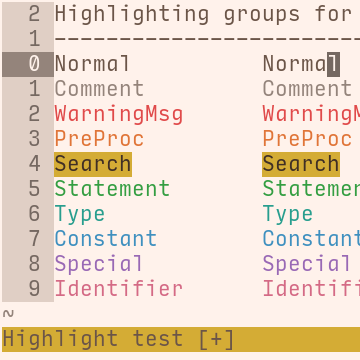
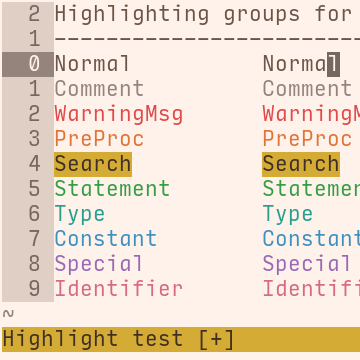
overhaul

Changed region(s): [[0.0, 0.9167, 0.3361, 0.9778], [0.3667, 0.9167, 0.5194, 0.9778], [0.55, 0.9167, 0.6417, 0.9778]]

diff --git a/README.md b/README.md
@@ -94,32 +94,32 @@ let g:wonka_light_LineNr = 'off'
     <tr>
       <td style="text-align: right"><img src="http://www.colorhexa.com/2b1b12.png" height="24" width="42" /> <code class="highlighter-rouge">2b1b12</code> </td>
       <td style="text-align: center"><img src="http://www.colorhexa.com/e04a4a.png" height="24" width="42" /> <code class="highlighter-rouge">e04a4a</code> </td>
-      <td style="text-align: left"><img src="http://www.colorhexa.com/bf6060.png" height="24" width="42" /> <code class="highlighter-rouge">bf6060</code></td>
+      <td style="text-align: left"><img src="http://www.colorhexa.com/bf5050.png" height="24" width="42" /> <code class="highlighter-rouge">bf5050</code></td>
     </tr>
     <tr>
       <td style="text-align: right"><img src="http://www.colorhexa.com/402f25.png" height="24" width="42" /> <code class="highlighter-rouge">402f25</code> </td>
       <td style="text-align: center"><img src="http://www.colorhexa.com/e07538.png" height="24" width="42" /> <code class="highlighter-rouge">e07538</code> </td>
-      <td style="text-align: left"><img src="http://www.colorhexa.com/b5734c.png" height="24" width="42" /> <code class="highlighter-rouge">b5734c</code></td>
+      <td style="text-align: left"><img src="http://www.colorhexa.com/b5693c.png" height="24" width="42" /> <code class="highlighter-rouge">b5693c</code></td>
     </tr>
     <tr>
       <td style="text-align: right"><img src="http://www.colorhexa.com/6b5548.png" height="24" width="42" /> <code class="highlighter-rouge">6b5548</code> </td>
       <td style="text-align: center"><img src="http://www.colorhexa.com/d4ac35.png" height="24" width="42" /> <code class="highlighter-rouge">d4ac35</code> </td>
-      <td style="text-align: left"><img src="http://www.colorhexa.com/ab9248.png" height="24" width="42" /> <code class="highlighter-rouge">ab9248</code></td>
+      <td style="text-align: left"><img src="http://www.colorhexa.com/ab8e38.png" height="24" width="42" /> <code class="highlighter-rouge">ab8e38</code></td>
     </tr>
     <tr>
       <td style="text-align: right"><img src="http://www.colorhexa.com/756861.png" height="24" width="42" /> <code class="highlighter-rouge">756861</code> </td>
-      <td style="text-align: center"><img src="http://www.colorhexa.com/349e42.png" height="24" width="42" /> <code class="highlighter-rouge">349e42</code> </td>
-      <td style="text-align: left"><img src="http://www.colorhexa.com/508a58.png" height="24" width="42" /> <code class="highlighter-rouge">508a58</code></td>
+      <td style="text-align: center"><img src="http://www.colorhexa.com/349e34.png" height="24" width="42" /> <code class="highlighter-rouge">349e34</code> </td>
+      <td style="text-align: left"><img src="http://www.colorhexa.com/508a50.png" height="24" width="42" /> <code class="highlighter-rouge">508a50</code></td>
     </tr>
     <tr>
       <td style="text-align: right"><img src="http://www.colorhexa.com/94847b.png" height="24" width="42" /> <code class="highlighter-rouge">94847b</code> </td>
-      <td style="text-align: center"><img src="http://www.colorhexa.com/289e8e.png" height="24" width="42" /> <code class="highlighter-rouge">289e8e</code> </td>
-      <td style="text-align: left"><img src="http://www.colorhexa.com/458a81.png" height="24" width="42" /> <code class="highlighter-rouge">458a81</code></td>
+      <td style="text-align: center"><img src="http://www.colorhexa.com/289e81.png" height="24" width="42" /> <code class="highlighter-rouge">289e81</code> </td>
+      <td style="text-align: left"><img src="http://www.colorhexa.com/458a79.png" height="24" width="42" /> <code class="highlighter-rouge">458a79</code></td>
     </tr>
     <tr>
       <td style="text-align: right"><img src="http://www.colorhexa.com/9e8d83.png" height="24" width="42" /> <code class="highlighter-rouge">9e8d83</code> </td>
       <td style="text-align: center"><img src="http://www.colorhexa.com/3f90bf.png" height="24" width="42" /> <code class="highlighter-rouge">3f90bf</code> </td>
-      <td style="text-align: left"><img src="http://www.colorhexa.com/5c869e.png" height="24" width="42" /> <code class="highlighter-rouge">5c869e</code></td>
+      <td style="text-align: left"><img src="http://www.colorhexa.com/4f819e.png" height="24" width="42" /> <code class="highlighter-rouge">4f819e</code></td>
     </tr>
     <tr>
       <td style="text-align: right"><img src="http://www.colorhexa.com/e0cfc5.png" height="24" width="42" /> <code class="highlighter-rouge">e0cfc5</code> </td>
@@ -143,10 +143,10 @@ let g:wonka_light_LineNr = 'off'
 <p><img src="http://www.colorhexa.com/d4ac35.png" height="24" width="42" />
 <strong>Yellow</strong>, the classic highlighting colour, is applied to elements that are not warnings, yet should draw attention with high visibility. These <strong>highlighted elements</strong> include search results, task tags (<code class="highlighter-rouge">TODO</code>, <code class="highlighter-rouge">FIXME</code>…), and diff changes.</p>
 
-<p><img src="http://www.colorhexa.com/349e42.png" height="24" width="42" />
+<p><img src="http://www.colorhexa.com/349e34.png" height="24" width="42" />
 <strong>Green</strong>, the colour that says “go ahead, proceed with the task at hand”, is used for <strong>action elements</strong>, such as statements (if/then, while/do, case…), mode indicators (insert, visual…), vim user prompts, and diff additions.</p>
 
-<p><img src="http://www.colorhexa.com/289e8e.png" height="24" width="42" />
+<p><img src="http://www.colorhexa.com/289e81.png" height="24" width="42" />
 <strong>Teal</strong> is named after the “common teal”, a kind of duck, thus connecting this colour with the concept of “species”, which is a means of classifying life into very specific types. Teal is therefore used for specifying <strong>object types</strong>, such as data type (boolean, integer, string…) or storage class (static, volatile…), as well as marking mislocalized words (that is, words that are not misspelled but of the wrong type, namely a foreign locale type).</p>
 
 <p><img src="http://www.colorhexa.com/3f90bf.png" height="24" width="42" />
